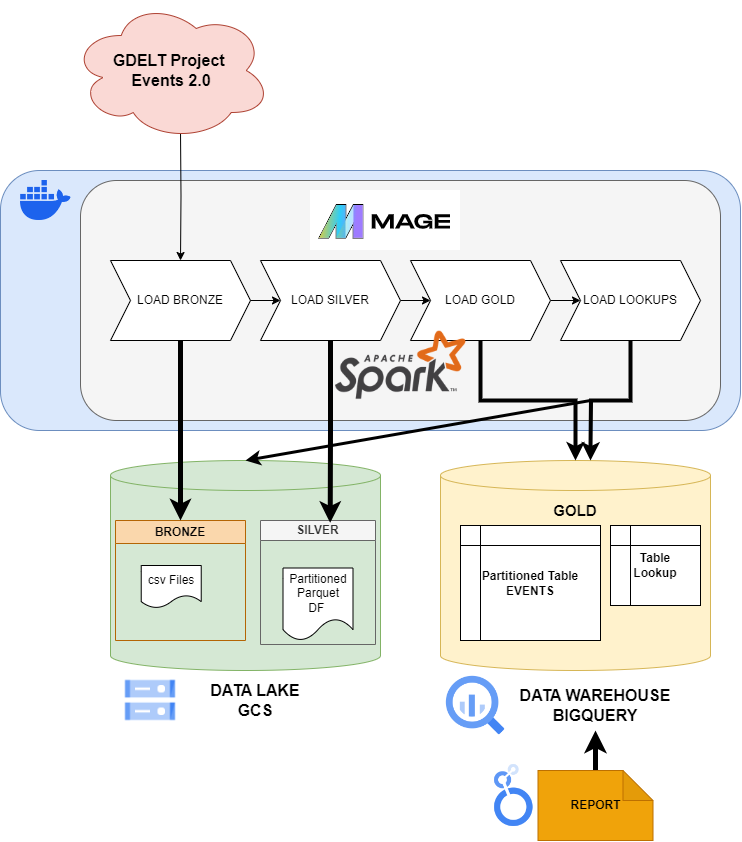
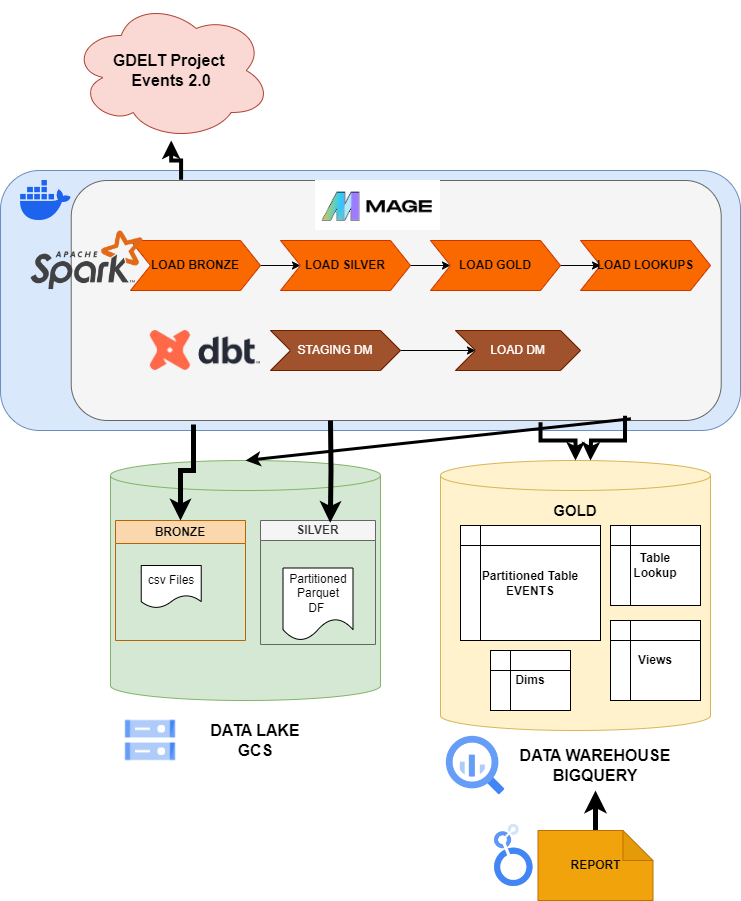
Updated README

Changed region(s): [[0.0, 0.0309, 1.0, 1.0], [0.2173, 0.0, 0.3104, 0.0309], [0.3414, 0.0926, 0.3725, 0.1235]]

diff --git a/README.md b/README.md
@@ -1,11 +1,13 @@
 # Data Engineering Zoomcamp Cohort 2024
-# Project: GDELT Project Events workflow and Visualization
+# GDELT Project Events Data Workflow and Visualization
 
 ## GDELT Project
 
-That is the vision of the GDELT Project. Put simply, the GDELT Project is a realtime open data global graph over human society as seen through the eyes of the world's news media, reaching deeply into local events, reaction, discourse, and emotions of the most remote corners of the world in near-realtime and making all of this available as an open data firehose to enable research over human society.
+Put simply, the GDELT Project is a realtime open data global graph over human society as seen through the eyes of the world's news media, reaching deeply into local events, reaction, discourse, and emotions of the most remote corners of the world in near-realtime and making all of this available as an open data firehose to enable research over human society.
 
 *"The GDELT Project is an initiative to construct a catalog of human societal-scale behavior and beliefs across all countries of the world, connecting every person, organization, location, count, theme, news source, and event across the planet into a single massive network that captures what's happening around the world, what its context is and who's involved, and how the world is feeling about it, every single day."*
+
+[GDELT Project Website](https://www.gdeltproject.org/)
 
 ## GDELT Event 2.0 Database
 The GDELT Event Database records over 300 categories of physical activities around the world, from riots and protests to peace appeals and diplomatic exchanges, georeferenced to the city or mountaintop, across the entire planet dating back to January 1, 1979 and updated every 15 minutes.
@@ -25,14 +27,16 @@ Some features:
 [More info](https://blog.gdeltproject.org/gdelt-2-0-our-global-world-in-realtime/)
 
 ## Our Problem
-In this project, we build a data workflow to ingest, transform and store events from the GDELT Project Event 2.0 database for a established period of time, by default, 45 days. We apply the **Medallion Arquitecture**. A medallion architecture is a data design pattern used to logically organize data in a lakehouse, with the goal of incrementally and progressively improving the structure and quality of data as it flows through each layer of the architecture (from Bronze ⇒ Silver ⇒ Gold layer tables). Once our data is in a data warehouse in the Gold stage, we can create reports to show information to our users. We give you a report as an example of data visualization.
+In this project, we build a data workflow to ingest, transform and store events from the GDELT Project Event 2.0 database for a established period of time, by default, 45 days. We apply the **Medallion Arquitecture**. A medallion architecture is a data design pattern used to logically organize data in a lakehouse, with the goal of incrementally and progressively improving the structure and quality of data as it flows through each layer of the architecture (from Bronze ⇒ Silver ⇒ Gold layer tables). 
+
+Once our data is in a data warehouse in the **Gold stage**, we use [dbt software](https://www.getdbt.com/product/what-is-dbt) to create a set of views, for our staging area, and a set of dimension tables and facts tables, for our datamart. Then we can create reports to show information to our users. We give you a report as an example of data visualization. 
 
 ### Workflow and process description
 ![Architecture](images/architecture.png)
 
 1. Ingestion to **Bronze** stage:  
 	- Download and read the Master CSV data file list
-	- Take the filenames of the csv data files generated in the last n days, 45 days in our example, **about 4,700 csv zipped files**
+	- Take the filenames of the csv data files generated in the last n days, 45 days in our example, **about 4,300 csv zipped files**
 	- Download each csv zipped file from the GDELT Project page, unzip it and concatenate to a csv file, each csv file contains 30 csv files from GDELT Project.
 	- Save the source files to our bronze stage in a bucket on Google Cloud Storage
 2. Transformation to **Silver** stage:
@@ -47,12 +51,19 @@ In this project, we build a data workflow to ingest, transform and store events 
 	- Read the lookup tables from the GDELT Project Event database in csv format
 	- Convert it to a Pandas Dataframe and categorize each type of table.
 	- Save the lookup data in csv format in the **bronze** and **silver** containers in Cloud Storage and to a BigQuery table in the **Gold** Data Warehouse.
+5. Prepare **staging area**:
+	- Create BigQuery views to prepare our data for reporting tasks.
+	- Only create a simple example, containing 2 dimensions and 2 table of aggregated facts.
+6. Load the **"datamart" area**:
+	- Create 4 BigQuery tables based on the views of the staging area.
+	- We join data from the Event Code and Actor Type dimensions to the Event Fact table, creating a teo tables of aggregated facts by event code and actor type.
 
-We build and run our workflow in ***Mage** and use **Apache Spark** to manage and transform all data efficiently.Each numbered step corresponds to a **Pipeline** in Mage, and each pipeline triggers the next one in the flow. 
+We build and run our workflow in ***Mage** and use **Apache Spark** to manage and transform all data efficiently from source to Bronze to Gold stages.Each numbered step corresponds to a **Pipeline** in Mage, and each pipeline triggers the next one in the flow.  The steps 5 and 6 are **dbt** models and process to get our dimensional model (only for our report needs).
 
-You can clone this repo and run a **Docker** container in your preferred environment to launch Mage with Spark and exwecute the Workflow. For example, you can run the container in a VM in GCP, a GitHub Codespace, in Google Cloud Run or even in your local machine.
+## To Run the Demo
+You can clone this repo and run the **Docker** container in your preferred environment to launch Mage with Spark and execute the Workflow. For example, you can run the container in a VM in GCP, a GitHub Codespace, in Google Cloud Run or even in your local machine.
 
-Finally, you can visualize the data in a dashboard on **Looker Studio**. 
+Finally, you can visualize the data in a [dashboard]((https://lookerstudio.google.com/reporting/f1018a56-01ea-422b-8c40-ea9b1a87ee01)) on **Looker Studio**. 
 
 ## Prerequisites to run the project demo
 1. Docker:
@@ -73,13 +84,16 @@ Finally, you can visualize the data in a dashboard on **Looker Studio**.
 	- Service Usage Admin
 	- Service Management Administrator
     You can include more permissions if you want to expand this project for a future use.
+
+	Our example Project_id = 'gdelt-project-account'
+
 3. Create an access key JSON file, you need to download its private key file. 
 	- This key file will be used to authenticate requests to GCP services.
 	- Select the service account you just created to view its details, Click on the "Keys" tab and then click the "Add Key" button.
 	- Select the "JSON" key type and click "Create" to download the private key file. 
 	  **Rename your json file to `gdelt-project-credentials.json` and copy it to the mage directory `mage-gdelt` and the terraform folder `terraform`**
 
-## To run the demo project
+## To launch the project container
 1. Clone the repo to your local folder or to a VM or Github Codespace
 ```bash
 git clone https://github.com/edumunozsala/GDELT-Events-Data-Eng-Project.git
@@ -88,9 +102,13 @@ git clone https://github.com/edumunozsala/GDELT-Events-Data-Eng-Project.git
 2. Copy the json file with the GCP service account credentials to the folders `terraform` and `mage-gdelt` with the filename `gdelt-project-credentials.json`
 3. Create the GCP objects with Terraform
 
-**You can modify the file `variables.tf`, if you want to change the names of the GCP object to create for this demo. You will also need to modify the `.env`**
+**You can modify the file `variables.tf`, if you want to change the names of the GCP object to create for this demo. You will also need to modify the `.env` file**
 
 4.  `cd` into the terraform directory.
+```bash
+cd terraform
+```
+
 5. Initialize terraform folder
 
 ```bash
@@ -109,17 +127,28 @@ terraform apply
 **Our terraform script enable the BigQuery API**
 
 8. `cd` into mage directory `mage-gdelt`
+```bash
+cd mage-gdelt
+```
+
 9. Rename the file `dev.env` to `.env` and review the parameters.
 
-	**Values you can change: the buckets name and dataset you create with terraform
-	but you must not change PROJECT_NAME, SPARK_MASTER_HOST, GOOGLE_APPLICATION_CREDENTIALS, ENV**
+	You can change the values of the GCP Objects: the buckets name and dataset you create with terraform
+	but **you must not change PROJECT_NAME, SPARK_MASTER_HOST, GOOGLE_APPLICATION_CREDENTIALS, ENV variables**
 	
-		Days to collect: you can change this value if you want to collect more or less data. Be carefull with the value you include.
+	*Days to collect*: you can change this value if you want to collect more or less data. Be carefull with the value you include because if can increase the execution time.
+
+	**Important**: The GCP objects in the .dev file should be the same defined in the terraform scripts.
 
 10. Build the container
-	`docker compose build`
+```bash	
+docker compose build
+```
 11. Run the contaier
-`docker compose up`
+```bash
+docker compose up
+```
+
 12. Open Mage UI in your web browser.
 	If you are running it locally go to http://localhost:6789, but this link may differ depending on where and how you run the docker container.
 13. To run the whole workflow you just need to open the `load_bronze_gcs` pipeline and click the run once button.
@@ -130,23 +159,29 @@ Click on run@nce:
 
 Go to logs to watch how the process advance, when a pipeline finish the next one is automatically launch. Open every pipeline to see the logs.
 
-**It takes about 15 minutes to download and move to Cloud Storage all the csv files, 4,700, and about 10 minutos to process them and create the dataframes and tables.**
+**It takes about 15-20 minutes to download and move to Cloud Storage all the csv files, 4,300, and about 10 minutos to process them and create the dataframes and tables. Finally, the tables and views in our dimensional data warehouse for reporting take about 3-4 minutes. **
 
 14. Once the workflow has finished you can go to the dashboard on [Looker Studio](https://lookerstudio.google.com/reporting/f1018a56-01ea-422b-8c40-ea9b1a87ee01)
-
-Some Visualizations:
-
-**TOTAL EVENTS**
-![Total amount of events, articles and mentions](images/total_events.png)
-
-![Events by Country](images/events_by_country.png)
-
 
 **IMPORTANT**: When you are done you can destroy the GCP bjects :
 
 ```bash
+cd terraform
 terraform destroy
 ```
 
+
+## Dashboard and Visualizations in Looker Studio
+
+We have published a report in [Looker Studio](https://lookerstudio.google.com/reporting/f1018a56-01ea-422b-8c40-ea9b1a87ee01) to show you some insights on the GDELT Project Events Database.
+
+It is just an example, using our Events table partitioned by Week, so you can select the week on the report. the source of some figures are our aggregated tables of events, one by the type of event and the other by the actor 1 and 2 types.
+
+**FIGURES**
+![Total amount of events, articles and mentions](images/total_events.png)
+
+![Events by Country](images/events_by_country.png)
+
+![Events by Type of Source](images/events_by_source_type.png)
 
 
